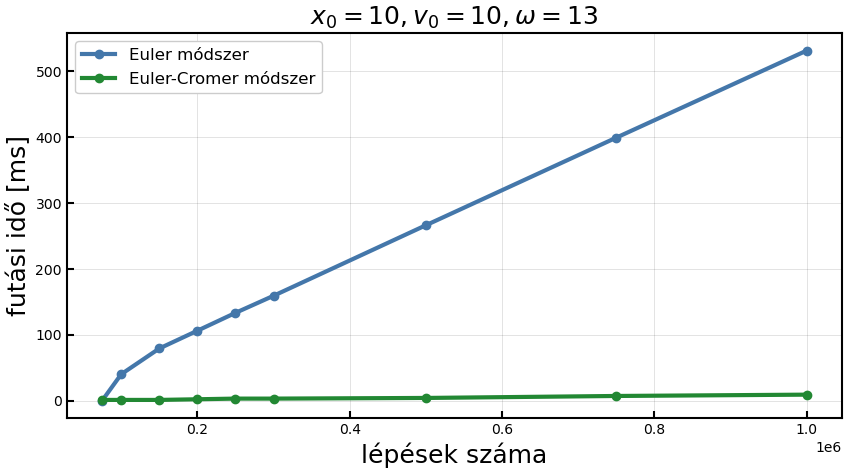
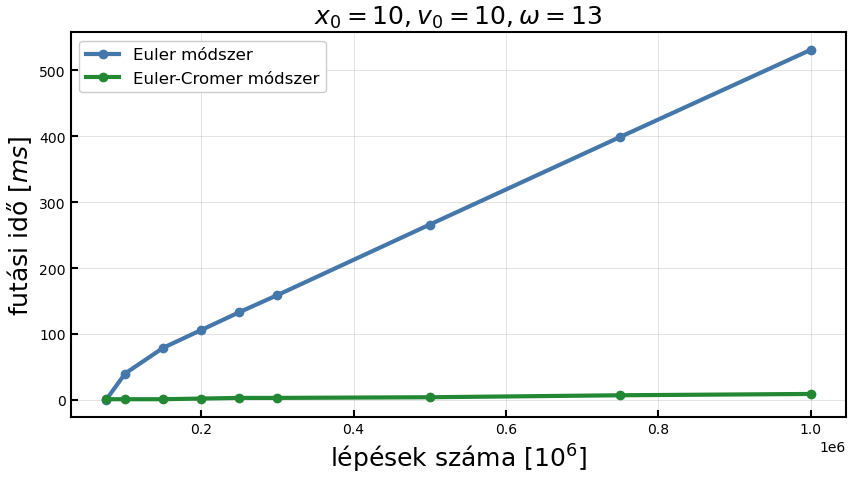
added readme

diff --git a/1. Harmonic oscillator/src/visuals.py b/1. Harmonic oscillator/src/visuals.py
@@ -80,8 +80,8 @@ def createPlots(input: str, outPath: str, x0: float=10., v0: float=10., omega: f
     plt.plot(nERun, tERun, 'o-', label='Euler módszer')
     plt.plot(nECRun, tECRun, 'o-', label='Euler-Cromer módszer')
 
-    plt.ylabel('futási idő [ms]', size=18)
-    plt.xlabel('lépések száma', size=18)
+    plt.ylabel('futási idő $[ms]$', size=18)
+    plt.xlabel('lépések száma $[10^6]$', size=18)
     plt.title('$x_0=10, v_0=10, \omega=13$', size=18)
     plt.legend(loc='upper left')
     plt.savefig(f'{outPath}/futas.png', dpi=100)

diff --git a/README.md b/README.md
@@ -1,0 +1,11 @@
+<img src="https://www.elte.hu/media/98/4e/09bd02a0531e0a6378cfaf14e5c72244b304d9bbb78c58659350ad23390d/elte_angol_fekvo_kek_logo.png" height="180" />
+
+# Computer Simulations - Spring 2022
+Repository for my coursework in the  "Computer Simulations" course at ELTE<br>
+<br>
+**Subject code:** szamszimf19la<br>
+**Credits:** 3<br>
+
+## Homeworks
+TBA
+
